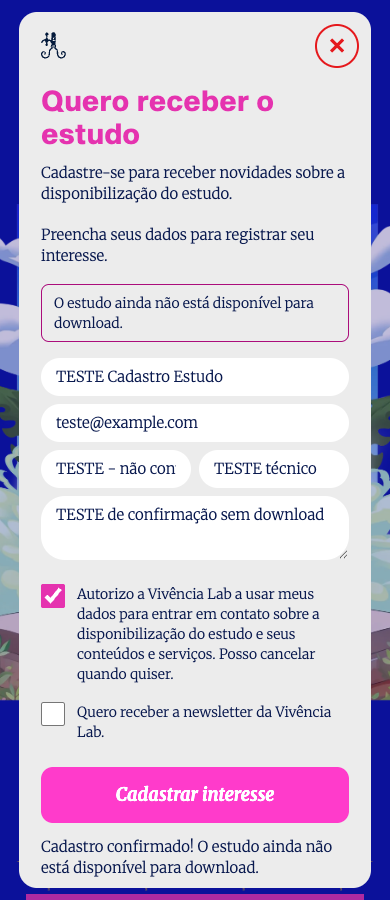
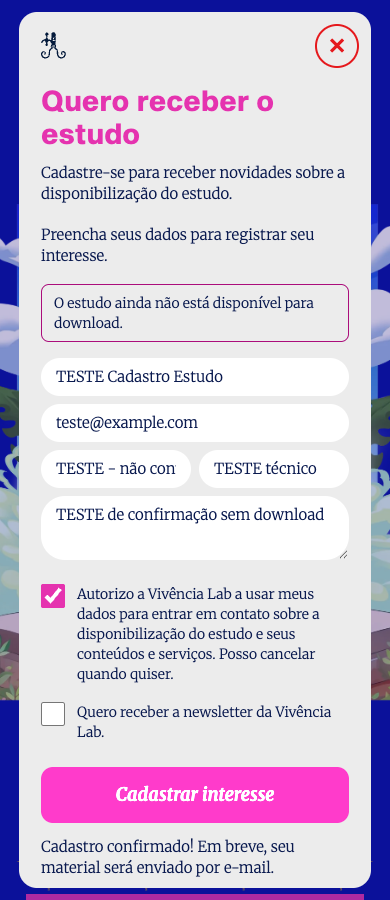
Update confirmed registration message for future email delivery

Changed region(s): [[0.1231, 0.9333, 0.8615, 0.9956]]

diff --git a/app.js b/app.js
@@ -183,7 +183,7 @@ form.addEventListener('submit', async event => {
     if (!response.ok || result.ok !== true || result.leadSaved !== true || result.requestId !== requestId) throw new Error('Não foi possível confirmar seu cadastro. Seus campos foram mantidos. Tente novamente.');
     confirmedPayload = fingerprint;
     status.dataset.state = 'success';
-    status.textContent = 'Cadastro confirmado! O estudo ainda não está disponível para download.';
+    status.textContent = 'Cadastro confirmado! Em breve, seu material será enviado por e-mail.';
   } catch {
     status.dataset.state = 'error';
     status.textContent = 'Não foi possível confirmar seu cadastro. Seus campos foram mantidos. Tente novamente.';

diff --git a/docs/study-interest-release.md b/docs/study-interest-release.md
@@ -2,7 +2,7 @@
 
 ## Comportamento implementado
 
-Os CTAs “Quero receber o estudo” abrem o formulário existente. A API valida os campos, consentimento e UUID; grava somente o interesse `estudo` via Apps Script; exige a confirmação com o mesmo requestId, aba Leads, nove colunas e número da linha. Newsletter é opcional. A confirmação só aparece após essa resposta. Uma falha preserva os campos e o ID para retry.
+Os CTAs “Quero receber o estudo” abrem o formulário existente. A API valida os campos, consentimento e UUID; grava somente o interesse `estudo` via Apps Script; exige a confirmação com o mesmo requestId, aba Leads, nove colunas e número da linha. Newsletter é opcional. A confirmação só aparece após essa resposta. Uma falha preserva os campos e o ID para retry. A confirmação abaixo do botão diz: “Cadastro confirmado! Em breve, seu material será enviado por e-mail.” O fluxo apenas registra o interesse; o envio do material permanece para a etapa de disponibilização.
 
 Nenhum cadastro consulta armazenamento, gera recibo de download, assina URL ou retorna PDF. Chamadas legadas para brandbook/recibo retornam 409 sem chamar serviços externos. Não existe opção de habilitar download por parâmetro do visitante.
 
